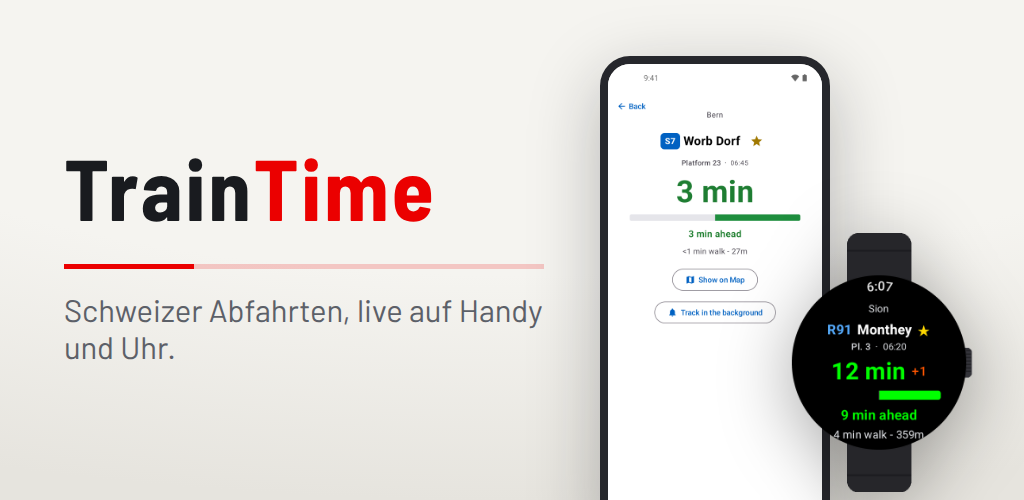
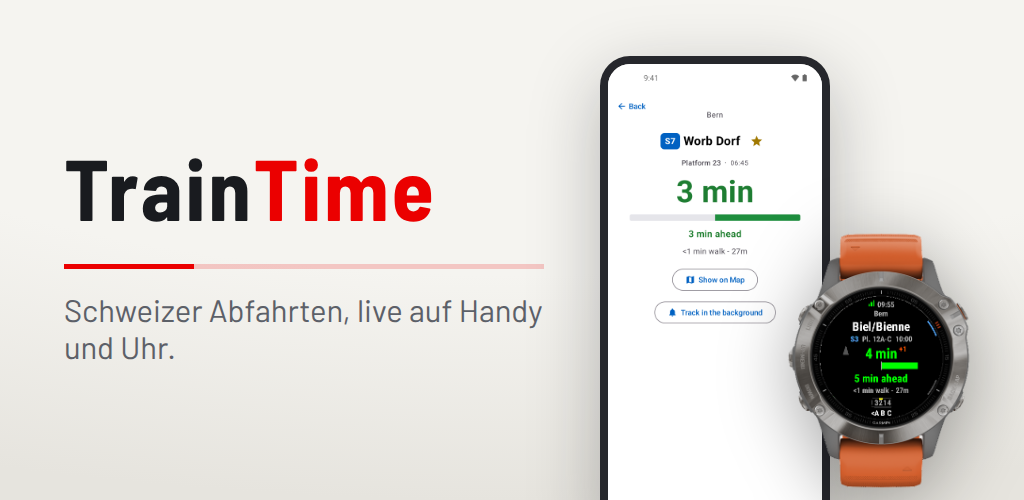
Announce Wear OS on the website
Play badge in the hero, a Wear OS gallery band from the framed emulator
captures, and a Wear OS & Android platform card. Feature graphics swap
the watch inset to the Garmin product shot.

Changed region(s): [[0.75, 0.45, 0.9688, 0.99]]

diff --git a/docs/index.html b/docs/index.html
@@ -746,6 +746,9 @@
         <a href="https://apps.apple.com/ch/app/traintime/id6760388620" target="_blank">
           <img src="app-store-badge.svg" alt="Download on the App Store" height="44" />
         </a>
+        <a href="https://play.google.com/store/apps/details?id=com.evanjt.traintime" target="_blank">
+          <img src="google-play-badge.svg" alt="Get it on Google Play" height="44" />
+        </a>
         <a href="https://apps.garmin.com/apps/c70bbfae-846a-4d00-9e96-d485217035fb" target="_blank">
           <img src="connect-iq-badge.svg" alt="Available on Connect IQ" height="44" />
         </a>
@@ -756,6 +759,7 @@
       <div class="gallery-switcher">
         <div class="gallery-toggle" id="gallery-toggle">
           <button class="active" data-platform="apple">Apple Watch</button>
+          <button data-platform="wear">Wear OS</button>
           <button data-platform="garmin">Garmin</button>
           <button data-platform="iphone">iPhone</button>
         </div>
@@ -774,6 +778,18 @@
             <div class="watch-device">
               <div class="watch-img-wrap"><img src="screenshots/apple/03-station-picker.png" alt="Station picker showing nearby stations with walk times" /></div>
               <div class="watch-label">Stations</div>
+            </div>
+          </div>
+        </div>
+        <div class="gallery-band hidden" id="band-wear">
+          <div class="gallery-track">
+            <div class="watch-device">
+              <div class="watch-img-wrap"><img src="screenshots/wear/01-station-view-framed.png" alt="Wear OS station departures with a starred favourite from Sion" /></div>
+              <div class="watch-label">Departures</div>
+            </div>
+            <div class="watch-device">
+              <div class="watch-img-wrap"><img src="screenshots/wear/02-focused-tracking-framed.png" alt="Wear OS focused tracking with countdown and walk distance" /></div>
+              <div class="watch-label">Tracking</div>
             </div>
           </div>
         </div>
@@ -883,6 +899,19 @@
           <div class="platform-name">Apple Watch &amp; iPhone</div>
           <div class="platform-status available">Available now</div>
         </a>
+        <a class="platform-card" href="https://play.google.com/store/apps/details?id=com.evanjt.traintime" target="_blank" style="text-decoration: none; color: inherit;">
+          <div class="platform-icon">
+            <svg viewBox="0 0 48 48" fill="none" xmlns="http://www.w3.org/2000/svg">
+              <circle cx="24" cy="26" r="14" stroke="currentColor" stroke-width="2.5"/>
+              <circle cx="24" cy="26" r="9" stroke="currentColor" stroke-width="1" opacity="0.3"/>
+              <rect x="18" y="2" width="12" height="7" rx="2" fill="currentColor" opacity="0.3"/>
+              <rect x="18" y="39" width="12" height="7" rx="2" fill="currentColor" opacity="0.3"/>
+              <circle cx="24" cy="26" r="2" fill="currentColor"/>
+            </svg>
+          </div>
+          <div class="platform-name">Wear OS &amp; Android</div>
+          <div class="platform-status available">Available now</div>
+        </a>
         <a class="platform-card" href="https://apps.garmin.com/apps/c70bbfae-846a-4d00-9e96-d485217035fb" target="_blank" style="text-decoration: none; color: inherit;">
           <div class="platform-icon">
             <svg viewBox="0 0 48 48" fill="none" xmlns="http://www.w3.org/2000/svg">
@@ -927,7 +956,7 @@
         });
 
         // Gallery platform switcher
-        var platforms = ['apple', 'garmin', 'iphone'];
+        var platforms = ['apple', 'wear', 'garmin', 'iphone'];
         var current = 0;
         var switching = false;
         var autoTimer = null;

diff --git a/docs/screenshots/board.py b/docs/screenshots/board.py
@@ -309,21 +309,32 @@ WEAR_FRAMED = os.path.join(SCRIPT_DIR, "android", "wear-framed.png")
 
 
 def frame_wear():
-    """Composite the fresh Wear capture into the product frame (case + strap)
-    from screenshots/watch_wear.png, replacing its stale screen content."""
+    """Composite the fresh Wear captures into the product frame (case + strap)
+    from screenshots/watch_wear.png, replacing its stale screen content.
+    Emits the store composite plus the website gallery pair."""
     from PIL import Image, ImageDraw
 
+    wear_list = os.path.join(
+        REPO, "android", "fastlane", "metadata", "android", "en-AU",
+        "images", "wearScreenshots", "01.png",
+    )
+    site = os.path.join(SCRIPT_DIR, "wear")
     frame = Image.open(os.path.join(REPO, "screenshots", "watch_wear.png")).convert("RGBA")
-    shot = Image.open(WEAR_TRACKING).convert("RGBA")
     size, cx, cy = 404, 220, 300
-    shot = shot.resize((size, size), Image.LANCZOS)
     mask = Image.new("L", (size * 4, size * 4), 0)
     ImageDraw.Draw(mask).ellipse([0, 0, size * 4 - 1, size * 4 - 1], fill=255)
     mask = mask.resize((size, size), Image.LANCZOS)
-    out = frame.copy()
-    out.paste(shot, (cx - size // 2, cy - size // 2), mask)
-    out.save(WEAR_FRAMED)
-    print(f"  {os.path.relpath(WEAR_FRAMED, STORE)}")
+    for src, dest in [
+        (WEAR_TRACKING, WEAR_FRAMED),
+        (wear_list, os.path.join(site, "01-station-view-framed.png")),
+        (WEAR_TRACKING, os.path.join(site, "02-focused-tracking-framed.png")),
+    ]:
+        shot = Image.open(src).convert("RGBA").resize((size, size), Image.LANCZOS)
+        out = frame.copy()
+        out.paste(shot, (cx - size // 2, cy - size // 2), mask)
+        os.makedirs(os.path.dirname(dest), exist_ok=True)
+        out.save(dest)
+        print(f"  {os.path.relpath(dest, STORE)}")
 
 
 # Shot list: (output stem, screen capture, caption, subcaption). Captions are
@@ -500,7 +511,7 @@ def build_feature_graphic(locale, strings, palette):
         dev_shadow=p["dev_shadow"],
         tagline=strings["tagline"],
         screen=os.path.join(SCRIPT_DIR, "android", "01-tracking.png"),
-        wear=WEAR_FRAMED,
+        wear=os.path.join(SCRIPT_DIR, "garmin", "03-focused-tracking-framed.png"),
     )
     render(html, 1024, 500, os.path.join(STORE, "feature", locale, "featureGraphic.png"))
 
